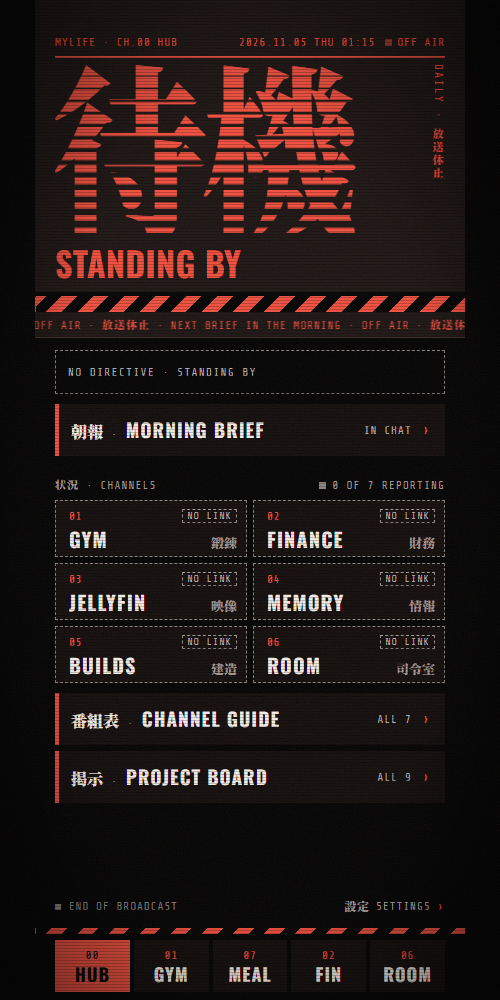
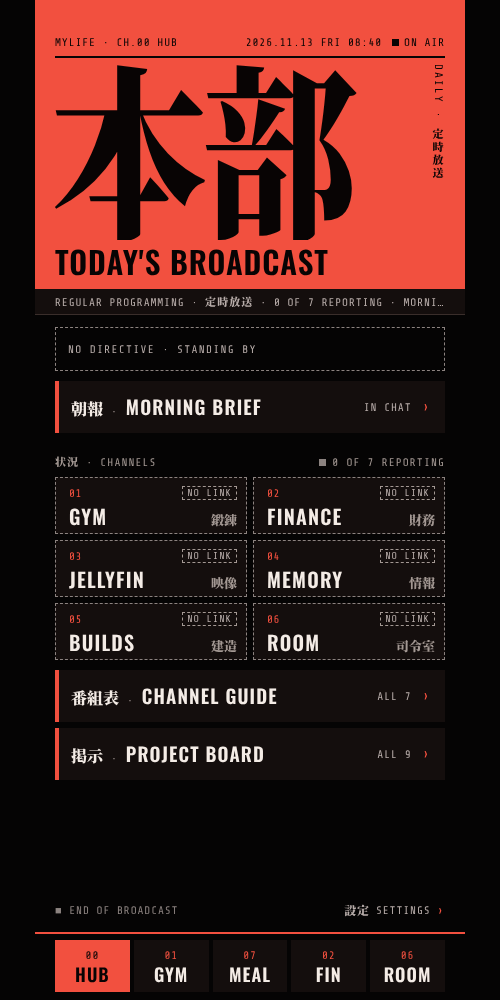
Calm Broadcast: MyLife in the Jellyfin r4 look (#2)
Keeps the red masthead and big kanji; drops scanline cuts, glitch, flicker,
CRT overlay, marching hazards and the scrolling ticker. Headings use
Bahnschrift 600 (Oswald 600 fallback), smaller buttons, quiet hover/press.
Settings loses the Effects switch since effects are retired.

Claude-Session: https://claude.ai/code/session_018cPyDwmiQEjk6EhzVvTr2t

diff --git a/mylife.css b/mylife.css
@@ -396,3 +396,52 @@ html.fx-off .v3 .ticker .track{animation:none}
 .v3 .pcard .pname{font-weight:700;font-size:19px;line-height:1.15;letter-spacing:.06em;text-transform:uppercase;min-width:0}
 .v3 .pcard .pk{font-size:12px;line-height:1;color:var(--text-3);white-space:nowrap}
 .v3 .pcard .pline{grid-column:2 / 4;margin:0;font-family:var(--f-display);font-weight:500;font-size:15px;line-height:1.4;letter-spacing:.01em;color:var(--text-2)}
+
+/* Calm Broadcast (2026-11-13): MyLife in the accepted Jellyfin r4 look. The red masthead and big kanji stay;
+   scanline slices, glitch, flicker, CRT overlay, marching hazards, the scrolling ticker and blinking dots go.
+   Headings use Bahnschrift 600 semi-condensed (Windows), falling back to Oswald 600 elsewhere. Hazard stripes
+   are kept for nothing on the hub (Jellyfin keeps them only on delete buttons). Appended only: delete this block
+   to get the v3 final look back. */
+:root{--f-head:Bahnschrift,'Oswald','Arial Narrow','Helvetica Neue',Arial,sans-serif}
+body{font-stretch:semi-condensed}
+
+/* Header: clean kanji (no scanline cuts), the hazard band under it becomes nothing; one still rule in the bar. */
+.v3 .mast .scan{display:none}
+.v3 .mast h1{font-weight:600;font-size:31px;letter-spacing:.03em}
+.mast + .hazard{display:none}
+.hazard.thin{height:2px;background:var(--accent);animation:none !important}
+
+/* Nothing moves or blinks: still on-air dot, still cursor, static ticker showing one pass of its words. */
+.v3 .mast .air .dot,.v3 .directive .blk{animation:none !important;opacity:1}
+.v3[data-mode="standby"] .mast .air .dot{opacity:.6}
+.v3 .ticker .track{display:block;flex:1 1 auto;animation:none !important;transform:none;min-width:0;padding:0 20px}
+.v3 .ticker .seg + .seg{display:none}
+.v3 .ticker .seg{display:block;white-space:nowrap;overflow:hidden;text-overflow:ellipsis}
+.v3 .mast .kanji::before,.v3 .mast .kanji::after{content:none}
+.screen.v3,.v3 .mast,.v3 .hazard{animation:none !important}
+.crt,.slice{display:none !important}
+
+/* Lighter headings: 600 instead of 700 everywhere the heading face is used. */
+.mast .app,.directive .l1,.directive .hero,.directive .done,.row .name,.tile .tname,.grow .gname,.readout .big,
+.readout .ident .gname,.btn,.pick .pname,.toggle-row .tname,.bar a .s,.v3 .chrow .gname,.v3 .cell .cv,.v3 .gdir .gt,
+.v3 .act .an,.v3 .dash .dn,.v3 .swatch .sn,.v3 .pcard .pname{font-weight:600}
+
+/* Jellyfin-size buttons and actions (r4: 44px+, 15-17px), not 68px slabs. */
+.btn{min-height:48px;font-size:17px}
+.btn.secondary{border-width:1px}
+.v3 .act{min-height:52px}
+.v3 .act .an{font-size:21px}
+.v3 .dash.big{min-height:56px}
+.v3 .dash .dn{font-size:17px}
+
+/* Quiet hover and press: no 10px edge growth, no scanline texture; the press is a darker row. */
+@media (hover:hover){
+  .v3 .tile:hover,.v3 a.row:hover,.v3 .chrow:hover{border-left-width:4px;padding-left:10px}
+  .v3 a.row:hover,.v3 .chrow:hover{padding-left:12px}
+  .v3 .tile.nolink:hover,.v3 .chrow.nolink:hover{border-left-width:1px;padding-left:13px}
+  .v3 .tile:hover .tname,.v3 a.row:hover .name,.v3 .chrow:hover .gname{color:var(--accent)}
+}
+.v3 .tile:active,.v3 a.row:active,.v3 .chrow:active{background-color:var(--surface-2);background-image:none;color:var(--text);border-left-color:var(--accent)}
+.v3 .tile:active *,.v3 a.row:active *,.v3 .chrow:active *{color:inherit !important}
+.v3 .tile:active .num,.v3 a.row:active .chev,.v3 .chrow:active .num,.v3 .chrow:active .chev{color:var(--accent) !important}
+.v3 .act:active{background-image:none;filter:brightness(.92)}

diff --git a/mylife.js b/mylife.js
@@ -64,8 +64,9 @@
   }
   function motionSetting() { return store('mylife.motion') === 'reduced'; }
   function reducedMotion() { return motionSetting() || deviceReduced(); }
-  /* v3 look: Effects (CRT overlay, kanji glitch, Slice, header pulse, hazard march, flicker) on unless set off. */
-  function effectsOn() { return store('mylife.effects') !== 'off'; }
+  /* Calm Broadcast (11-13): the v3 effects (CRT overlay, kanji glitch, Slice, pulse, hazard march, flicker) are
+     retired to match the Jellyfin r4 theme, so effects are always off and Settings no longer offers the switch. */
+  function effectsOn() { return false; }
   function motionClasses() {
     var c = document.documentElement.classList;
     if (reducedMotion()) c.add('rm'); else c.remove('rm');
@@ -482,7 +483,7 @@
   function settings(root, now, f, opts) {
     opts = opts || {};
     function paint(toast) {
-      var m = moodOf(now, f, opts), k = accentKey(), reduced = motionSetting(), dev = deviceReduced(), fx = effectsOn();
+      var m = moodOf(now, f, opts), k = accentKey(), reduced = motionSetting(), dev = deviceReduced();
       var picks = [['red', 'RED', 'DEFAULT'], ['orange', 'ORANGE', ''], ['gold', 'GOLD', '']].map(function (p) {
         return '<button type="button" class="swatch" role="radio" aria-checked="' + (k === p[0]) + '" data-accent="' + p[0] + '" style="--sw:' + ACCENTS[p[0]] + '" aria-label="' + p[1].toLowerCase() + ' accent' + (p[2] ? ', the default' : '') + '">' +
           '<span class="sn">' + p[1] + '</span><span class="sd mono">' + p[2] + '</span><span class="box" aria-hidden="true">' + (k === p[0] ? '✓' : '') + '</span></button>';
@@ -495,7 +496,6 @@
         '<div class="sect plain mono first"><span><span lang="ja">色</span> · ACCENT</span><span></span></div>' +
         '<div class="swatches" role="radiogroup" aria-label="Accent">' + picks + '</div>' +
         '<div class="sect plain mono"><span><span lang="ja">動き</span> · MOTION</span><span></span></div>' +
-        sw('effects', fx, 'EFFECTS', 'CRT, GLITCH, TICKER, SLICE') + '<div style="height:4px"></div>' +
         sw('motion', reduced, 'REDUCED MOTION', 'HOLDS EVERYTHING STILL') +
         (dev ? '<div class="mono" style="margin-top:6px;color:var(--text-2)">THIS DEVICE ASKS FOR REDUCED MOTION · MYLIFE IS ALREADY STILL</div>' : '') +
         '<div class="sect plain mono"><span><span lang="ja">画面</span> · HOME SCREEN</span><span></span></div>' +
@@ -512,9 +512,6 @@
       });
       root.querySelector('#motion').addEventListener('click', function () {
         store('mylife.motion', motionSetting() ? 'full' : 'reduced'); paint(false); root.querySelector('#motion').focus();
-      });
-      root.querySelector('#effects').addEventListener('click', function () {
-        store('mylife.effects', effectsOn() ? 'off' : 'on'); paint(false); root.querySelector('#effects').focus();
       });
     }
     paint(false);

diff --git a/README.md b/README.md
@@ -3,7 +3,7 @@
 A phone home screen for a self-hosted home lab, styled like a late-night TV broadcast. One page shows today's one next step, a tile for every app in the house, and a channel guide that says which apps are reachable. It is plain HTML, CSS and JavaScript, so it opens straight from a file with no server, no build step and no framework.
 
 <p>
-  <img src="screenshots/index.png" width="240" alt="Home screen, standing by at night">
+  <img src="screenshots/index.png" width="240" alt="Home screen">
   <img src="screenshots/guide.png" width="240" alt="Channel guide">
   <img src="screenshots/channel.png" width="240" alt="One channel page">
   <img src="screenshots/projects.png" width="240" alt="Project board">
@@ -18,7 +18,7 @@ A phone home screen for a self-hosted home lab, styled like a late-night TV broa
 - **Channel Guide.** Every channel gets a row with its state (OK, STALE, OFFLINE or NO READING) and the time of its last check.
 - **Channel pages** (`signal.html?ch=01` and so on). Each page has its status and an **OPEN** button for that app.
 - **Project Board.** One plain-English line per project.
-- **Settings.** You can pick the accent colour (red, orange or gold) and turn motion and the CRT effects on or off. These settings stay in the browser's `localStorage`.
+- **Settings.** You can pick the accent colour (red, orange or gold) and turn reduced motion on or off. These settings stay in the browser's `localStorage`.
 - **The hub is honest about what it doesn't know.** It fetches nothing, posts nothing and probes nothing. A tile shows a state only when a status file (`feed.js`) supplies one with a source and a check time. If that file is missing, older than 24 hours or can't be verified, every tile reads UNKNOWN instead of guessing.
 
 ## How to run it
